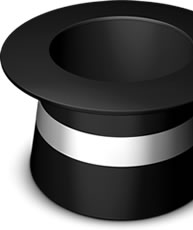
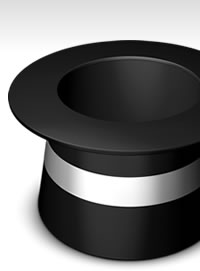
various tweaks

diff --git a/installer/js/install.configurator.js b/installer/js/install.configurator.js
@@ -79,7 +79,7 @@ jQuery.noConflict();
 								$('#dialog').html(data.error);
 								$('#dialog').dialog('show');
 	                        }else{
-	                        	if(data.backuploc != ''){ var backuploc = '<p><strong>Your morph files were backed up to: </strong><small>'+data.backuploc+'</small></p>'; }else{ var backuploc = '' }
+	                        	if(data.backuploc != ''){ var backuploc = '<p><strong>Your morph files have been backed up to: </strong></p><p><small>'+data.backuploc+'</small></p>'; }else{ var backuploc = '' }
 	                            hideScroll();
 	                            $('#saving').css('display', 'none');
 								$('#dialog').dialog({
@@ -113,7 +113,7 @@ jQuery.noConflict();
 				});
 			}else{
 				hideScroll();
-				$('<div>All fields are required</div>').dialog({
+				$('<div class="dialog-msg">All fields are required.</div>').dialog({
 	            	bgiframe: true,
 					autoOpen: true,
 					stack: true,
@@ -229,7 +229,7 @@ jQuery.noConflict();
 				});
 			}else{
 				hideScroll();
-				$('<div>All fields are required</div>').dialog({
+				$('<div class="dialog-msg">All fields are required.</div>').dialog({
 	            	bgiframe: true,
 					autoOpen: true,
 					stack: true,
@@ -291,7 +291,7 @@ jQuery.noConflict();
 					   			minHeight: 20,
 					   			width: 500,
 					   			modal: true,
-					   			title: '<span class="ui-icon ui-icon-alert" style="float:left; margin:0 7px 0 0;"></span><span style="float:left;padding-top: 2px">Error</span>',
+					   			title: 'Error',
 			   					overlay: {
 			   						backgroundColor: '#000000', 
 			   						opacity: 0.8 
@@ -309,7 +309,7 @@ jQuery.noConflict();
 							$('#dialog').html(data.error);
 							$('#dialog').dialog('show');
 						}else{
-							if(data.db == 'backedup'){ var dbstore = '<p><strong>Your database was backed up to: </strong><small>'+data.dbstore+'</small></p>'; }else{ var dbstore = '' }
+							if(data.db == 'backedup'){ var dbstore = '<p><strong>Your database was backed up to: </strong></p><p><small>'+data.dbstore+'</small></p>'; }else{ var dbstore = '' }
 						
 							hideScroll();
                             $('#saving').css('display', 'none');

diff --git a/installer/css/install.css b/installer/css/install.css
@@ -10,7 +10,7 @@
 #install-title h2{color:#444;margin:0;padding:0 0 0 20px;font:normal 15px/51px arial;text-shadow:0 1px 0 #fff;float:left;}
 #install-title h2 strong{color:#333;font-style:normal;}
 #install-title a{float:right;font:normal 13px arial;color:#666;margin:17px 15px 0 0;padding-right:25px;background:transparent url(../images/lifebuoy.png) no-repeat 99% 50%;}
-#install-body{background:transparent url(../images/bg-step1.jpg) no-repeat 100% 60%;border-top:1px solid #fff;border-bottom:3px solid #9AA3AE;padding:10px 200px 20px 20px;font:normal 18px/27px arial;position:relative;}
+#install-body{background:transparent url(../images/bg-step1.jpg) no-repeat 100% 0%;border-top:1px solid #fff;border-bottom:3px solid #9AA3AE;padding:10px 200px 20px 20px;font:normal 18px/27px arial;position:relative;}
 .step2 #install-body{background:transparent url(../images/bg-step2.jpg) no-repeat 100% 0%;padding-bottom:40px;}
 .step3 #install-body{background:transparent url(../images/bg-step3.jpg) no-repeat 100% 60%;padding-bottom:40px;}
 #install-body.complete{background:transparent url(../images/bg-complete.jpg) no-repeat 100% 0%;padding-bottom:40px;}
@@ -61,3 +61,4 @@
 #saving div{margin:35% 45%;width:215px;font:bold 15px arial;color:#fff;position:relative;}
 #saving div span{position:absolute;left:20px;top:-1px;}
 #minwidth-body .ui-widget-overlay{background:#000000 none repeat scroll 0 0;opacity:0.9;}
+.installer-help{padding:0 1em;}

diff --git a/js/configurator.functions.js.php b/js/configurator.functions.js.php
@@ -1338,7 +1338,7 @@ jQuery.noConflict();
 	    	if($(elid).val() != null){
 		    	var imageTitle  = $(elid).val(); 
 		    	var updatedTitle = imageTitle;
-		    	$(elid).after('<span class="logo-preview" title="'+imageTitle+'">&nbsp;<span>Preview</span></span><span class="upload-logo-container">(<a href="#" class="upload-logo">upload new</a>)</span>');
+		    	$(elid).after('<span class="logo-preview" title="'+imageTitle+'">&nbsp;<span>Preview</span></span><span class="upload-logo-container">(<a href="#" class="upload-logo">Upload Logo</a>)</span>');
 		    	$('.logo-preview').each(function(){
 					$(this).attr('title', '');
 		    		$(this).qtip({
@@ -1400,7 +1400,7 @@ jQuery.noConflict();
 	   			draggable: false,
 	   			minHeight: 20,
 	   			modal: true, 
-	   			title: '<span class="ui-icon ui-icon-alert" style="float:left; margin:0 7px 0 0;"></span><span style="float:left;">Warning</span>',
+	   			title: 'Warning',
 	   			overlay: {
 	   				backgroundColor: '#000', 
 	   				opacity: 0.5 
@@ -1715,7 +1715,7 @@ jQuery.noConflict();
 								$('#upload-message').dialog('moveToTop').dialog('show');
 							}else{
 								$('#upload-message').html(data.overwrite);
-								$('#upload-message').dialog('option', 'title', '<span class="ui-icon ui-icon-alert" style="float:left; margin:0 7px 0 0;"></span><span style="float:left;padding-top: 2px">Overwrite Warning</span>');
+								$('#upload-message').dialog('option', 'title', 'Overwrite Warning');
 								$('#upload-message').dialog(
 									'option', 'buttons', { 
 										'Yes': function(){

diff --git a/installer/help/step3.php b/installer/help/step3.php
@@ -1,1 +1,12 @@
-Help Step 3
+<div id="help-two" class="installer-help">
+<h3>Quick Setup options explained:</h3>
+
+<h4>Sample content &amp; example typography</h4>
+<p>Selecting this option will create a new section, with a few sample categories &amp; content items. The purpose of this option is to give you some sample data to get started with and provide you with additional help resources.</p>
+
+<h4>ModFX module examples </h4>
+<p>Selecting this option will create a 80+ new example modules for you to use a reference to get started with Morph's Mix &amp; Match <strong>ModuleFX</strong> styles. These are added to a special hidden module position and only outputs the example modules in four sample content items.</p>
+
+<h4>Basic module configuration</h4>
+<p>Selecting this option will take care of the general setup options that are usually required after installing Morph. This includes adjusting various core modules settings (including your top menu). More info will be published about this soon.</p>
+</div>

diff --git a/installer/help/step2.php b/installer/help/step2.php
@@ -1,1 +1,8 @@
-Help Step 2
+<div id="help-two" class="installer-help">
+<h3>Not sure what a themelet is?</h3>
+<p>Themelets as the visual layer of Morph and what people visiting your site will actually see. Built on top of Morphs powerful intelligent engine, themelets inherit all of the underlying awesomeness that is Morph. Not only are themelets quicker to develop, but because they all sit on top of the same framework, which means you always have the same great features close at hand.</p>
+
+<h3>Not sure which file to install?</h3>
+<p>If you haven't downloaded a themelet yet, you will need to login to the club downloads area and <a href="http://www.joomlajunkie.com/member/downloads/" title="login to the club downloads to get the latest versions">grab the latest version</a> of your chosen themelet.</p>
+<p>The file is called <strong>themelet_lightbase_v0.07.zip</strong>, with <em>v0.07</em> referencing the version you have downloaded and will be installing.</p>
+</div>

diff --git a/installer/help/step1.php b/installer/help/step1.php
@@ -1,1 +1,8 @@
-Help Step 1
+<div id="help-one" class="installer-help">
+<h3>How the automatic backup works:</h3>
+<p>If you have a copy of Morph installed, you can choose to have a backup automatically created for you. Backups are stored in sites assets folder, which is located in "<em>[site-root]/morph_assets</em>"</p>
+
+<h3>Not sure which file to install?</h3>
+<p>If you haven't downloaded Morph yet, you will need to login to the club downloads area and <a href="http://www.joomlajunkie.com/member/downloads/" title="login to the club downloads to get the latest versions">grab the latest version</a> of the Morph template.</p>
+<p>The file is called <strong>morph_template_v0.09.zip</strong>, with <em>v0.09</em> referencing the version you have downloaded and will be installing.</p>
+</div>
